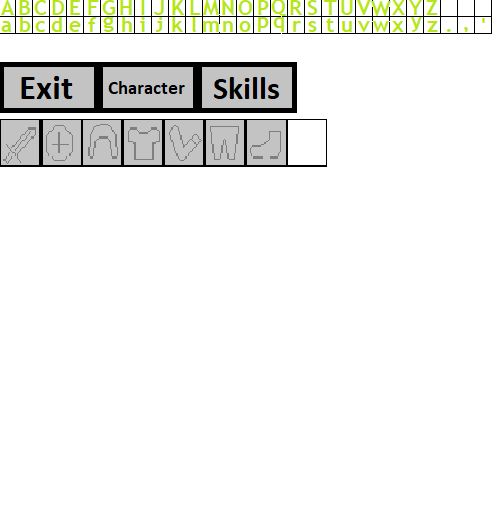
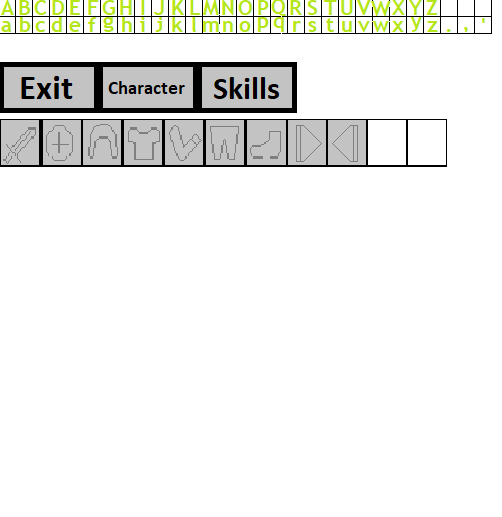
CharSheet OnCursor
HOLY SHIT!  You can now click on the head slot and it goes onto the cursor !!!!!

Changed region(s): [[0.5677, 0.2166, 0.8964, 0.3404]]

diff --git a/main.py b/main.py
@@ -35,6 +35,9 @@ class Game:
         #list of CLICKABLE MENU SPRITES
         self.menuboxes = []
 
+        #if there is a sprite on the cursor
+        self.oncursor = False
+
         #list of dialog NPCs in the current zone, empty and reload when zoning
         self.dialognpc = []
         #list of items in chests or available for PU in the zone, empty and reload when zoning
@@ -70,18 +73,18 @@ class Game:
         self.current_zone.x = FRANTIKSHUTMAXX
         self.current_zone.y = FRANTIKSHUTMAXY
 
-        #drawing layers
+        # ALL SPRITES TO BE DRAWN MUST GO HERE
         self.all_sprites = pygame.sprite.LayeredUpdates()
+        #SPRITES FOR COLLISION AND GROUPING TYPES
         self.playersprite = pygame.sprite.LayeredUpdates()
         self.blocks  = pygame.sprite.LayeredUpdates()
         self.enemies = pygame.sprite.LayeredUpdates()
-        self.attacks = pygame.sprite.LayeredUpdates()
         self.zonelines = pygame.sprite.LayeredUpdates()
+        #SPRITES FOR GROUPING TYPES TOGETHER
         self.battle = pygame.sprite.LayeredUpdates()
         self.npc = pygame.sprite.LayeredUpdates()
-        #self.dialognpc = pygame.sprite.LayeredUpdates()
         self.text = pygame.sprite.LayeredUpdates()
-        #self.items = pygame.sprite.LayeredUpdates()
+        #self.attacks = pygame.sprite.LayeredUpdates()
 
         #CREATE PLAYER AND ADD TO PARTY
         #self.party.append(Player(self, 10, 10))
@@ -90,18 +93,19 @@ class Game:
         
         #DIALOG
         self.in_dialog = False
-        #save values from hit NPC
+        #save values from COLLIDED NPC
         self.dialogindex = -1
         self.dialoglength = -1
         
 
     def showDialog(self, dialog):
         tempx = 1
-        #get rid of any previous text
+        #ERASE SHOWING TEXT
         for sprite in self.text:
             sprite.kill()
         
-        if dialog == "kill": #if dialog is over
+        #IF DIALOG IS OVER, KILL SPRITES
+        if dialog == "kill":
             self.in_dialog = False
         else:
             for x in dialog:
@@ -209,28 +213,31 @@ class Game:
                     StaticSprite(self, j, i, MAINMENUGROUNDX, MAINMENUGROUNDY, GROUND_LAYER)
                     if column == "A":
                         StaticSprite(self, j, i, MAINMENUWALLX, MAINMENUWALLY, BLOCK_LAYER)
-                    ## THESE CLICKABLE SPRITES HAVE TO BE PUT INTO THE MAP IN A SPECIFIC ORDER FOR COLLISION
+                    ## THESE CLICKABLE SPRITES HAVE TO BE PUT INTO THE MAP EACH TIME BC CLEARING SPRITES
                     if column == "E":
-                        self.menuboxes.append(StaticSprite(self, j, i, EXITBUTTONX, EXITBUTTONY, TEXT_LAYER))
+                        self.menuboxes[EXIT] = StaticSprite(self, j, i, EXITBUTTONX, EXITBUTTONY, TEXT_LAYER)
                     if column == "G":
-                        self.menuboxes.append(StaticSprite(self, j, i, CHARACTERBUTTONX, CHARACTERBUTTONY, TEXT_LAYER))
+                        self.menuboxes[CHARACTER] = StaticSprite(self, j, i, CHARACTERBUTTONX, CHARACTERBUTTONY, TEXT_LAYER)
                     if column == "Q":
-                        self.menuboxes.append(StaticSprite(self, j, i, SPELLSBUTTONX, SPELLSBUTTONY, TEXT_LAYER))
+                        self.menuboxes[SPELLS] = StaticSprite(self, j, i, SPELLSBUTTONX, SPELLSBUTTONY, TEXT_LAYER)
                     if column == "H":
-                        StaticSprite(self, j, i, HEADSLOTX, HEADSLOTY, GEAR_LAYER)
+                        self.menuboxes[HEAD] = StaticSprite(self, j, i, HEADSLOTX, HEADSLOTY, GEAR_LAYER)
                     if column == "C":
-                        StaticSprite(self, j, i, CHESTSLOTX, CHESTSLOTY, GEAR_LAYER)
+                        self.menuboxes[CHEST] = StaticSprite(self, j, i, CHESTSLOTX, CHESTSLOTY, GEAR_LAYER)
                     if column == "R":
-                        StaticSprite(self, j, i, ARMSSLOTX, ARMSSLOTY, GEAR_LAYER)
+                        self.menuboxes[ARMS] = StaticSprite(self, j, i, ARMSSLOTX, ARMSSLOTY, GEAR_LAYER)
                     if column == "L":
-                        StaticSprite(self, j, i, LEGSSLOTX, LEGSSLOTY, GEAR_LAYER)
+                        self.menuboxes[LEGS] = StaticSprite(self, j, i, LEGSSLOTX, LEGSSLOTY, GEAR_LAYER)
                     if column == "F":
-                        StaticSprite(self, j, i, FEETSLOTX, FEETSLOTY, GEAR_LAYER)
+                        self.menuboxes[FEET] = StaticSprite(self, j, i, FEETSLOTX, FEETSLOTY, GEAR_LAYER)
                     if column == "P":
-                        StaticSprite(self, j, i, PRIMARYSLOTX, PRIMARYSLOTY, GEAR_LAYER)
+                        self.menuboxes[PRIMARY] = StaticSprite(self, j, i, PRIMARYSLOTX, PRIMARYSLOTY, GEAR_LAYER)
                     if column == "S":
-                        StaticSprite(self, j, i, SECONDARYSLOTX, SECONDARYSLOTY, GEAR_LAYER)
-
+                       self.menuboxes[SECONDARY] = StaticSprite(self, j, i, SECONDARYSLOTX, SECONDARYSLOTY, GEAR_LAYER)
+                    if column == "U":
+                        self.menuboxes[SHIFTLEFT] = StaticSprite(self, j, i, SHIFTLEFTX, SHIFTLEFTY, GEAR_LAYER)
+                    if column == "Z":
+                       self.menuboxes[SHIFTRIGHT] = StaticSprite(self, j, i, SHIFTRIGHTX, SHIFTRIGHTY, GEAR_LAYER)
 #Roll a Natural 20 on the dice.
 #Roll the dice again with all the exact same bonuses that were applied to the Natural 20 roll.
 #If the attack roll from Step 2 is a hit, roll your damage twice and add the result of both rolls together.
@@ -323,10 +330,9 @@ class Game:
                 self.running = False
 
             elif event.type == pygame.MOUSEBUTTONDOWN:
-                print ("Searching Boxes")
                 if self.inmenu:
                     mouse_pos = pygame.mouse.get_pos()
-                    i = 0
+                    i = 1
                     while i < self.menuboxes.__len__():
                         if self.menuboxes[i].rect.collidepoint(mouse_pos):
                             #if hitting the exit button
@@ -344,6 +350,17 @@ class Game:
                                 self.createTilemap(self.current_zone.id)
                             elif i == CHARACTER:
                                 self.createTilemap(CHARACTERMENU)
+                            elif i == HEAD:
+                                if not self.oncursor:
+                                    print ("Picking Up - Head Slot")
+                                    self.oncursor = True
+                                    pygame.mouse.set_visible(False) 
+                                #PUT PIC OF HEAD SLOT ON CURSOR
+                                    tempcoord = pygame.mouse.get_pos()
+                                    self.menuboxes[CURSOR] = StaticSprite(self, tempcoord[0], tempcoord[1], HEADSLOTX, HEADSLOTY, GEAR_LAYER)
+                                    #self.cursor_img_rect = self.menuboxes[HEAD].get_rect()
+                                #while self.oncursor
+                                    #cursor_img_rect.center = pygame.mouse.get_pos()  # update position 
                         #else: #clicked a gear slot, not put pic on cursor
                         i += 1
 
@@ -423,7 +440,10 @@ class Game:
                         self.showDialog("kill")
                    
     def update(self):
+        if self.oncursor:
+            self.menuboxes[CURSOR].rect = pygame.mouse.get_pos()
         self.all_sprites.update()
+        
 
     def draw(self):
         self.screen.fill(BLACK)

diff --git a/config.py b/config.py
@@ -30,7 +30,7 @@ MOBS = 3
 CHARACTER_SPACING = 0.4
 
 ## GEAR DEFINES ##
-NUMOFMENUITEMS = 12 #MAKES 11 SPOTS, TOTAL AMOUNT OF CLICKABLE ITEMS IN MENU
+NUMOFMENUITEMS = 20 #MAKES 11 SPOTS, TOTAL AMOUNT OF CLICKABLE ITEMS IN MENU
 NUMOFGEARSLOTS = 7
 NUMOFINVENTORYSLOTS = 10
 PRIMARY = 1
@@ -44,6 +44,9 @@ FEET = 7
 EXIT = 8
 CHARACTER = 9
 SPELLS = 10
+SHIFTLEFT = 11
+SHIFTRIGHT = 12
+CURSOR = 13
 
 
 
@@ -179,7 +182,6 @@ BATTLEMENUWALLY = 0
 BATTLEMENUBACKX = 192
 BATTLEMENUBACKY = 128
 
-## THE MENU ITEMS AND GEAR SLOTS MUST GO IN SPECIFIC ORDER FOR COLLISION DETECTION (FOR NOW)
 CHARACTERMENU = [
 'AAAAAAAAAAAAAAAAAAAAAAAAA',
 'AE...G...Q..............A',
@@ -197,7 +199,7 @@ CHARACTERMENU = [
 'A.......................A',
 'AAAAAAAAAAAAAAAAAAAAAAAAA',
 'A.......................A',
-'A.......................A',
+'A.Z...................U.A',
 'A.......................A',
 'AAAAAAAAAAAAAAAAAAAAAAAAA',
 ]
@@ -207,16 +209,17 @@ MAINMENUWALLY = 0
 MAINMENUGROUNDX = 480
 MAINMENUGROUNDY = 64
 
+#COORDS FOR CLICKALE MEU SPRITES
 PRIMARYSLOTX = 0
-PRIMARYSLOTY = SECONDARYSLOTY = HEADSLOTY = CHESTSLOTY = ARMSSLOTY = LEGSSLOTY = FEETSLOTY = 120
+PRIMARYSLOTY = SECONDARYSLOTY = HEADSLOTY = CHESTSLOTY = ARMSSLOTY = LEGSSLOTY = FEETSLOTY = SHIFTLEFTY = SHIFTRIGHTY = 120
 SECONDARYSLOTX = 41
 HEADSLOTX = 82
 CHESTSLOTX = 123
 ARMSSLOTX = 164
 LEGSSLOTX = 205
 FEETSLOTX = 246
-
-
+SHIFTLEFTX = 287
+SHIFTRIGHTX = 328
 EXITBUTTONX = 0
 EXITBUTTONY = 32
 CHARACTERBUTTONX = 101

diff --git a/sprites.py b/sprites.py
@@ -495,7 +495,7 @@ class StaticSprite(pygame.sprite.Sprite):
         self.height = TILESIZE
 
         #impassible by player
-        if layer == BLOCK_LAYER:
+        if layer == BLOCK_LAYER: #all_sprites for display, blocks for collision
             self.groups = self.game.all_sprites, self.game.blocks
             self.image = self.game.temp_spritesheet.get_sprite(pixx, pixy, self.width, self.height)
         #transport player to connected zone on collision
@@ -527,7 +527,7 @@ class StaticSprite(pygame.sprite.Sprite):
 class TextSprite(pygame.sprite.Sprite):
     def __init__(self, game, x, y, char):
         self.game = game
-        self._layer = TEXT_LAYER
+        #DISPLAY GROUPS
         self.groups = self.game.all_sprites, self.game.text
         
         self.x = x * TILESIZE
